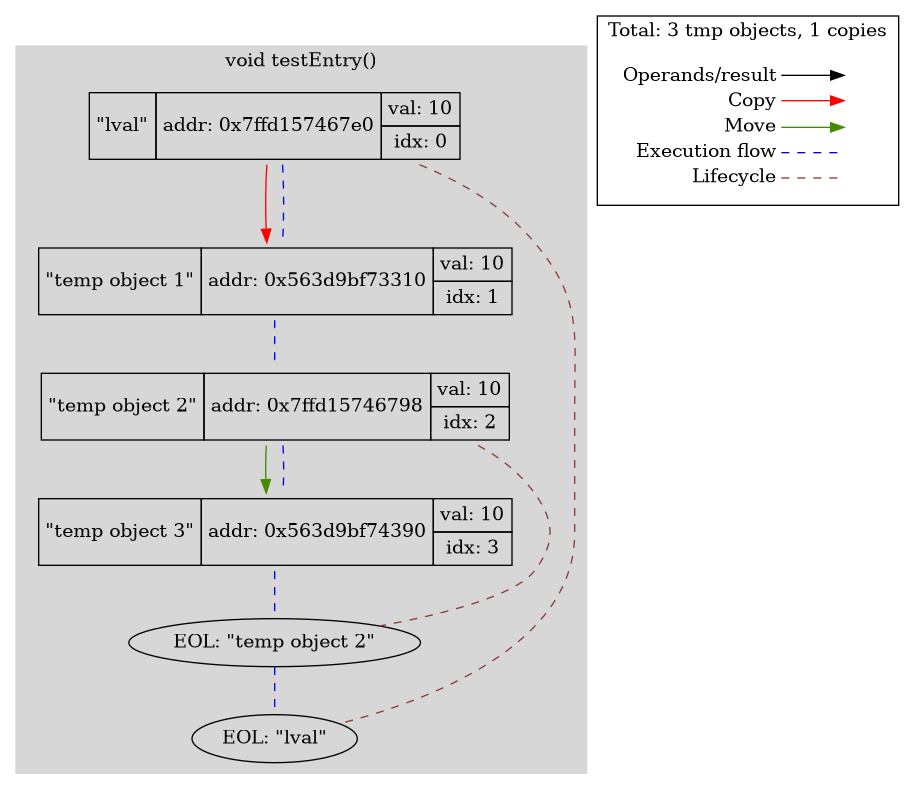
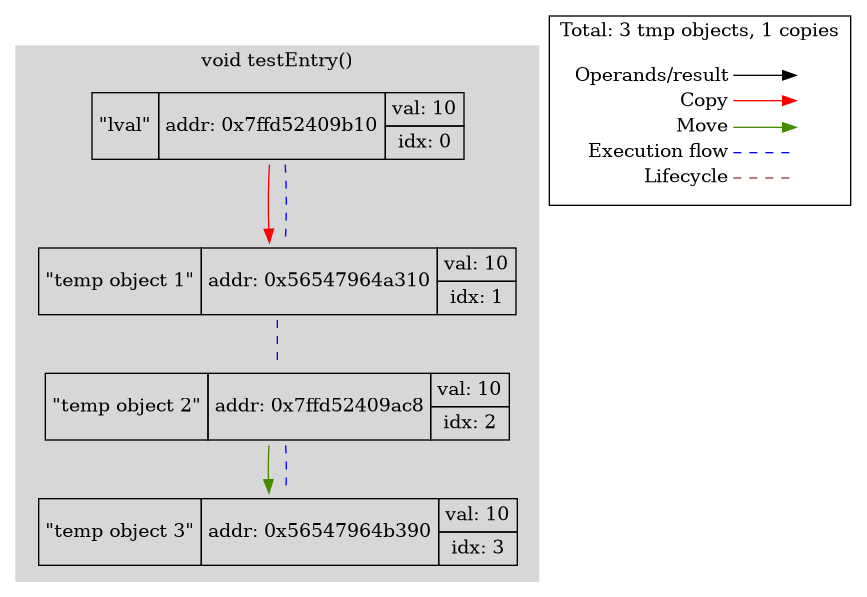
Tracking: readme seems to be finished

Changed region(s): [[0.0, 0.0, 0.9965, 0.995]]

diff --git a/industrial_sem4/tracking/main.cpp b/industrial_sem4/tracking/main.cpp
@@ -1,36 +1,71 @@
+//#define TRACKING_DISABLE_MOVE
+#define LOG_DISABLE_DTORS
+
 #include <cassert>
 #include <cstring>
-#define TRACKING_DISABLE_MOVE
 #include "TrackedInt.hpp"
 #include "HtmlLogger.hpp"
 #include "ConsoleLogger.hpp"
 #include "DotLogger.hpp"
 
-TrackedInt test(TrackedInt a, TrackedInt b, TrackedInt c)
+template<typename T>
+struct remove_reference
 {
-    FUNC_ENTRY;
-    return a + b + c;
+    typedef T type;
+};
+
+template<typename T>
+struct remove_reference<T&>
+{
+    typedef T type;
+};
+
+template<typename T>
+struct remove_reference<T&&>
+{
+    typedef T type;
+};
+
+template<typename T>
+typename remove_reference<T>::type &&move(T &&arg)
+{
+    return static_cast<typename remove_reference<T>::type&&>(arg);
 }
 
-void testEntry()
+template<typename T>
+T&& forward(T &arg)
+{
+    return static_cast<T&&>(arg);
+}
+
+template<typename T, typename Arg>
+T *createDynamic(Arg &&arg)
+{
+    return new T(std::forward<Arg>(arg));
+}
+
+TrackedInt square(TrackedInt arg)
 {
     FUNC_ENTRY;
-
-    INT(res1, test(TrackedInt(10), TrackedInt(20), TrackedInt(30)));
-
-    INT(a, 0);
-    INT(b, 0);
-    INT(c, 0);
-
-    a = 1;
-    b = 2;
-    c = 3;
-
-    INT(res2, test(a, b, c));
-
-    INT(res3, 0);
-    res3 = (a - b) * c;
+    return arg * arg;
 }
+
+// void testEntry()
+// {
+//     INT(a, 10);
+//     INT(result, square(std::move(a)));
+//     // a is not used anymore
+// }
+
+// void testEntry()
+// {
+//     FUNC_ENTRY;
+
+//     INT(lval, 10);
+
+//     TrackedInt *lvalue_copy = createDynamic<TrackedInt>(lval);
+//     TrackedInt *rvalue_copy = createDynamic<TrackedInt>(TrackedInt(10));
+// }
 
 int main(int argc, char *argv[])
 {       

diff --git a/industrial_sem4/tracking/topics/analysis2.md b/industrial_sem4/tracking/topics/analysis2.md
@@ -7,6 +7,7 @@ In the previous article, we managed to optimize unnecessary copying of temporary
 ```c++
 TrackedInt square(TrackedInt arg)
 {
+    FUNC_ENTRY;
     return arg * arg;
 }
 
@@ -36,7 +37,7 @@ typename std::remove_reference<T>::type &&move(T &&arg)
 }
 ```
 
-Due to template type deduction rules and reference collapsing, it can be passed with both lvalues and rvalues. `std::remove_reference` is a special class that - suddenly - removes reference from type T.
+Due to template type deduction rules and reference collapsing, it can be passed with both lvalues and rvalues.
 
 So, previous example can be written like this
 ```c++
@@ -55,7 +56,9 @@ Just like we want - object is moved instead of copying.
 
 ## std::forward
 
-Sometimes we want to pass value to inner function - and so that rvalue is moved and lvalue is copied. For example, let's look at a function which creates the class instance with some given argument. In order to pass both lvalues and rvalues, we use an universal reference.
+Sometimes we want to pass the value to inner function - and so that rvalue is moved and lvalue is copied. There are the sample program which contains `createDynamic` function which creates the class instance with some given argument.
+
+In order to pass both lvalues and rvalues, we use an universal reference. There are three attempts to implement argument forwarding:
 
 ```c++
 template<typename T, typename Arg>
@@ -68,16 +71,12 @@ T *createDynamic(Arg &&arg)
     // case 3
     return new T(std::forward<Arg>(arg));
 }
-```
 
-There are a test program:
-
-```c++
 void testEntry()
 {
-    INT(lval, 10);
+    INT(lvalue, 10);
 
-    TrackedInt *lvalue_copy = createDynamic<TrackedInt>(lval);
+    TrackedInt *lvalue_copy = createDynamic<TrackedInt>(lvalue);
     TrackedInt *rvalue_copy = createDynamic<TrackedInt>(TrackedInt(10));
 }
 ```
@@ -86,13 +85,15 @@ void testEntry()
 | ------------------------------  | --------------------------------------- | ------------------------------- |
 | ![](../images/without_forward.png) | ![](../images/move_instead_forward.png) | ![](../images/with_forward.png) |
 
-Case 1 doesn't work as intented. Rvalue is not perfectly forwarded - it's copied inside `createDynamic`. This is because `arg` is lvalue - despite it's type.
+Thanks to the tool, we can in practice make sure that:
 
-Maybe use `move` (case 2)? It's a bad idea - lvalue which passed to `createDynamic` will be forcely moved in this case.
+- Case 1 doesn't work as intented. Rvalue is not perfectly forwarded - it's copied inside `createDynamic`. This is because `arg` is lvalue - despite it's type.
 
-Notice that we have `Arg` template parameter - it unfolds to `T` if rvalue is passed and to `T&` if lvalue is passed. So, we want to get a function, which would get an argument of type `A` and return `A&&` in the first case and `A&` in the second. It is what `std::forward` does in case 3. With forward, the test program works as intented - rvalue is moved, lvalue is moved:
+- Maybe use `move` (case 2)? It's a bad idea - lvalue which passed to `createDynamic` will be unexpectedly moved in this case.
 
-`std::forward`'s implementation looks something like this:
+- Notice that we have `Arg` template parameter - it unfolds to `T` if rvalue is passed and to `T&` if lvalue is passed. So, we want to get a function, which would get an argument of type `A` and return different type depending on what type does `Arg` unfolds to - `A&&` in the first case and `A&` in the second. It is what `std::forward` does in case 3 - note that `Arg` is used as template parameter. In case 3, the test program works as intented - rvalue is moved and lvalue is copied.
+
+`std::forward` implementation looks something like this:
 
 ```c++
 template<typename T>
@@ -102,4 +103,11 @@ T&& forward(T &arg)
 }
 ```
 
-The main point is `T&` as argument. In any case, argument is unfolded to `A&`. Cast type and return value type are unfolded like this - wheh `T` is `A` (it's true when rvalue is passed), `T&&` is `A&&`, and when `T` is `A&` (it's true when lvalue is passed), `T&&` is `A&&`. Anything works as we want.
+The main point is `T&` as argument. In any case, argument's `T&` is unfolded to `A&`. Cast type and return value type are unfolded like this - wheh `T` is `A` (it's true when rvalue is passed), `T&&` is `A&&`, and when `T` is `A&` (it's true when lvalue is passed), `T&&` is `A&` due to reference collapsing rules. So, we get the expected behavior.
+
+## Conclusion
+
+- We figured out how we can tell the compiler that we no longer need an object and it can be moved instead of copying.
+- We also dealt with the problem of a perfect forwarding.
+
+Over the course of two articles, we figured out what semantic ideas in modern C ++ allow us to get rid of the problem of unnecessary copies. Thus, we are getting closer to the "zero cost C++".
